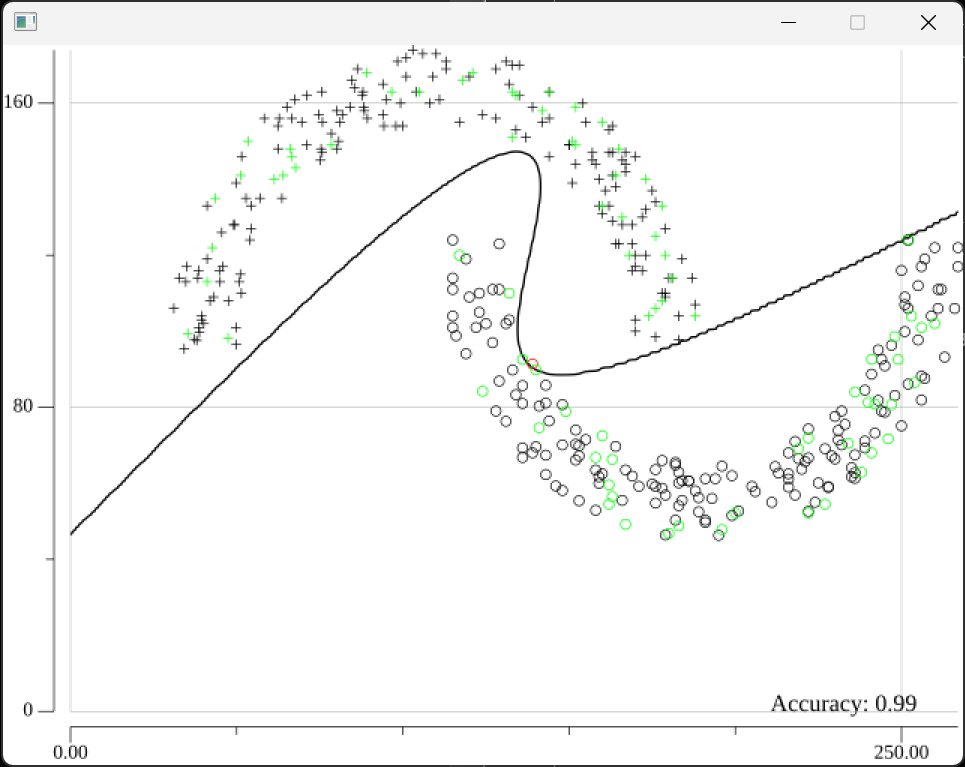
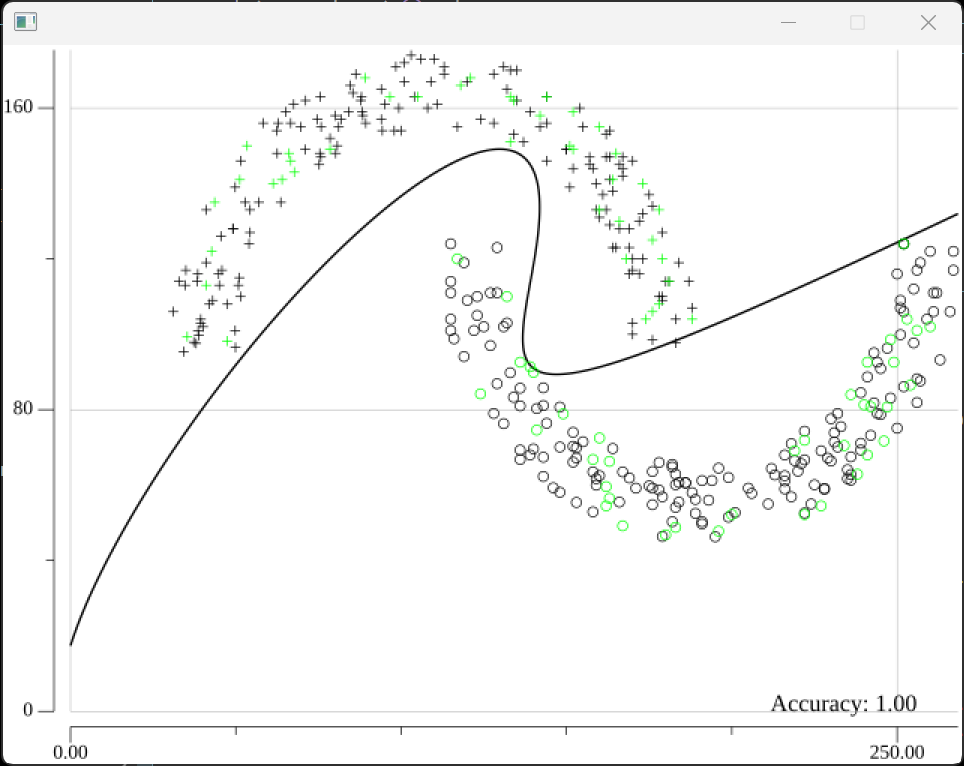
Implemented adaptive learning rate and updated cubic arcs

diff --git a/example/main.go b/example/main.go
@@ -19,13 +19,13 @@ type InputReader interface {
 }
 
 const (
-	inputFileName = "C:/Common/Projects/School/logistic-regression-2/data/two_circles.csv"
+	inputFileName = "C:/Common/Projects/School/logistic-regression-2/data/arcs.csv"
 
-	epochs        = 1e+5
-	learningRateW = 1e-13
-	learningRateB = 0.1
-	power         = 3 // Power of the polynomial used in regression
-	heatmapScale  = 0.1
+	epochs       = 1e+5
+	learningRate = 1e-3
+	power        = 3 // Power of the polynomial used in regression
+	heatmapScale = 0.1
+	epsilon      = 1e-8
 )
 
 var (
@@ -64,25 +64,27 @@ func main() {
 		trueClr:    color.RGBA{G: 255, A: 255},
 		falseClr:   color.RGBA{R: 255, A: 255},
 	}
-	// xTrain, xTest, yTrain, yTest := split(inputs, y)
-	xTrain, xTest, yTrain, yTest := inputs, inputs, y, y
+	xTrain, xTest, yTrain, yTest := split(inputs, y)
+	// xTrain, xTest, yTrain, yTest := inputs, inputs, y, y
 
 	for i := range yTrain {
 		pointPlt.addTrain(xTrain[i][0], xTrain[i][1], yTrain[i])
 	}
 
-	var b, db float64
+	gw := make([]float64, len(inputs[0]))
+	var b, db, gb float64
 	var dw []float64
 	for i := 0; i < epochs; i++ {
 		p := inference(xTrain, w, b)
 		dw, db = dCost(xTrain, yTrain, p)
 		for i := range w {
-			w[i] -= dw[i] * learningRateW
+			gw[i] += dw[i] * dw[i]
+			w[i] -= dw[i] * learningRate / math.Sqrt(gw[i]+epsilon)
 		}
-		b -= db * learningRateB
+		gb += db * db
+		b -= db * learningRate / math.Sqrt(gb+epsilon)
 		if i%1e4 == 0 {
 			fmt.Printf("\nGradient:\n Weights: %v\n Bias: %v\n\n", dw, db)
-
 		}
 	}
 
@@ -95,9 +97,6 @@ func main() {
 	for i := range prob {
 		pointPlt.addTest(xTest[i][0], xTest[i][1], yTest[i], prob[i])
 	}
-	// TODO: Regenerate split for cubic_Arcs to include red point
-	// TODO: Try 100% training set, 0% test set
-	// TODO: Cubic 2 circles raise polynomial power to 5th
 
 	boundPlot := decBoundPlot{
 		scale: heatmapScale,
